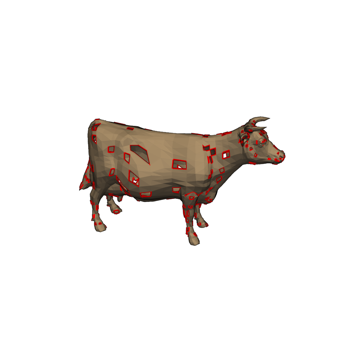
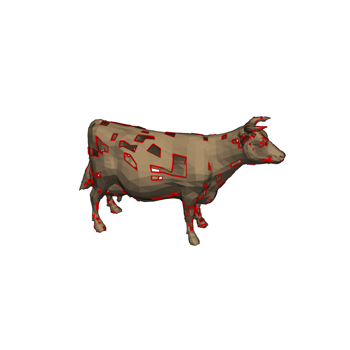
Update docs after building Travis build 45 of pyvista/pymeshfix
The docs were built from the branch 'master' against the commit
4418b48754cbcd72e7fec20f41871dd98e894cdd.

The Travis build that generated this commit is at
https://travis-ci.org/pyvista/pymeshfix/jobs/537508669.

The doctr command that was run is

    /home/travis/virtualenv/python3.6.7/bin/doctr deploy --built-docs ./docs/_build/html/ .

Changed region(s): [[0.2286, 0.3143, 0.8286, 0.6857], [0.2571, 0.5714, 0.3143, 0.6571]]

diff --git a/searchindex.js b/searchindex.js
@@ -1,1 +1,1 @@
-Search.setIndex({docnames:["api","examples/bunny","examples/cow","examples/index","examples/sg_execution_times","index"],envversion:{"sphinx.domains.c":1,"sphinx.domains.changeset":1,"sphinx.domains.cpp":1,"sphinx.domains.javascript":1,"sphinx.domains.math":2,"sphinx.domains.python":1,"sphinx.domains.rst":1,"sphinx.domains.std":1,sphinx:56},filenames:["api.rst","examples/bunny.rst","examples/cow.rst","examples/index.rst","examples/sg_execution_times.rst","index.rst"],objects:{"pymeshfix.MeshFix":{extract_holes:[0,1,1,""],load_arrays:[0,1,1,""],mesh:[0,2,1,""],plot:[0,1,1,""],repair:[0,1,1,""],save:[0,1,1,""],write:[0,1,1,""]},pymeshfix:{MeshFix:[0,0,1,""],_meshfix:[0,3,0,"-"],meshfix:[0,3,0,"-"]}},objnames:{"0":["py","class","Python class"],"1":["py","method","Python method"],"2":["py","attribute","Python attribute"],"3":["py","module","Python module"]},objtypes:{"0":"py:class","1":"py:method","2":"py:attribute","3":"py:module"},terms:{"0x7f31f1caa768":2,"0x7f31f1d0dca8":2,"446e":2,"637e":2,"696e":2,"701e":2,"760e":2,"998e":2,"case":5,"class":0,"default":0,"float":5,"import":[1,2,5],"new":0,"public":5,"return":[0,5],"true":[0,1,2],"while":5,FOR:5,One:5,The:5,There:5,_meshfix:5,abov:5,access:[0,5],add:2,add_mesh:[1,2],again:5,agreement:5,all:[0,5],allow:5,altern:5,ani:5,approach:5,arg:0,arrai:[0,5],ascii:0,assum:5,attempt:[0,5],atten:[0,5],author:5,award:5,base:[0,5],been:5,befor:0,begin:0,bell:5,better:5,binari:0,bool:0,both:0,bound:[2,5],boundari:[0,5],bring:5,bunni:[3,4],cad:5,camera:[1,2],camera_posit:[1,2],can:[0,5],cannot:5,cast:2,cell:2,charact:0,check:5,cite:5,clean:[0,5],clean_from_arrai:5,clean_from_fil:5,click:[1,2],clone:5,close:5,cnr:5,coars:5,code:[1,2],color:[1,2],com:5,commerci:5,commun:5,compon:[0,5],comput:5,contain:0,contract:5,control:5,copi:5,correct:5,could:5,cow:[3,4],cpo:[1,2],creat:5,cython:[0,5],data:0,debug:0,defect:5,defin:1,degener:5,degeneraci:[1,2],deprec:0,depth:[1,2],design:5,detail:5,digit:5,directli:5,disabl:0,disk:0,distribut:5,doi:5,download:[1,2],download_bunni:1,download_cow:2,drive:5,dual:5,each:0,eas:5,either:[0,5],element:5,enabl:0,enable_eye_dome_light:[1,2],even:5,exampl:[1,2,4],execut:4,extens:0,extract:[0,1],extract_geometri:2,extract_hol:[0,1,2],face:[0,5],fail:5,fals:0,faster:0,fclean:5,file:[0,4],filenam:0,filetyp:0,fill:5,fill_small_boundari:5,fit:5,fix:[1,2],flaw:5,follow:[0,5],format:5,foundat:5,free:5,from:[0,1,2,5],ftype:0,full:[1,2],galleri:[1,2,3],gener:[1,2,3,5],git:5,github:5,gnu:5,gpl:5,hard:5,has:5,have:5,help:[1,2],here:[1,2,5],hole:[0,1,2,5],holi:[3,4],holy_cow:2,hope:5,how:5,http:5,idea:5,imati:5,impli:5,infer:0,infil:5,inner_loop:5,inplac:0,input:5,int32:5,interfac:0,intersect:[1,2,5],invert:2,ipynb:[1,2],isol:0,join:[0,5],join_closest_compon:5,joincomp:0,jupyt:[1,2],largest:0,later:5,left:5,leverag:5,librari:5,licens:5,lightweight:5,line:0,line_width:[1,2],list:5,load:[0,5],load_arrai:[0,5],loadfil:5,locat:2,mai:[0,5],main:5,marco:[0,5],max_it:5,memori:5,merchant:5,mesh:[0,1,2,5],meshfix:[0,1,2,5],method:0,might:5,minut:[1,2],model:5,modifi:5,modul:[0,5],more:5,much:0,must:5,n_cell:2,nativ:5,ndarrai:0,nearbi:[0,5],necessari:5,nice:2,note:0,notebook:[1,2],numpi:[0,2,5],object:[0,5],occurr:5,one:0,open:0,option:[0,5],org:5,other:5,out:[1,2,5],outfil:5,outlin:[1,2],output:5,over:5,overridden:0,paper:5,paramet:0,part:5,particular:5,patch:[1,2],percept:[1,2],perform:[0,5],pip:5,pleas:5,plot:[0,1,2,5],plotter:[1,2],ply:[0,5],point:[0,2],polydata:[0,2],polygon:5,polyhedron:5,portabl:5,posit:1,present:5,print:[0,2,5],process:0,produc:5,program:5,proper:5,publish:5,purpos:5,pymeshfix:[0,1,2],pypi:5,python:[0,1,2,5],pytmesh:5,pyvista:[0,1,2,5],rand:2,random:2,raw:5,reach:5,read:5,readi:1,reason:5,redistribut:5,refer:5,region:5,remov:[0,5],remove_smallest_compon:0,render:[1,2],repair:[0,1,2,5],repres:5,requir:5,research:5,reserv:5,result:[2,5],return_arrai:5,right:5,run:[1,2,5],s00371:5,same:5,save:[0,5],save_fil:5,scalar:2,script:[1,2],second:[1,2],see:5,self:5,set:5,should:[0,5],show:[0,1,2],show_hol:0,simpl:0,singl:5,singular:5,softwar:5,solid:5,sort:5,sourc:[1,2,5],specif:5,specifi:0,speed:5,sphinx:[1,2,3],sphinx_gallery_thumbnail_numb:[1,2],springer:5,stl:0,str:0,string:0,surfac:[0,5],take:5,term:5,tessel:5,test:5,tetrahedr:0,than:0,thei:5,them:0,therefor:5,therein:5,thi:[0,5],three:0,threshold:2,thu:5,time:[1,2],tin:5,tmesh:5,total:[1,2,4],tri_filt:2,triangl:5,triangul:2,triangular:0,txt:5,type:0,typic:5,unavail:5,under:5,understand:5,unless:0,unmodifi:5,updat:0,use:5,used:5,useful:5,user:5,uses:5,using:[0,5],vclean:5,verbos:[0,1,2],version:5,vertex:[0,5],view:5,visual:5,vtk:0,vtkinterfac:5,warranti:5,watertight:5,where:5,whistl:5,win:5,wish:5,with_vtk:5,within:5,wonder:5,work:5,wrap:0,wrapper:[0,5],write:[0,5],written:0,www:5,xyz:0,you:5,your:5},titles:["API Reference","Bunny","Holy Cow","Examples","Computation times","PyMeshFix"],titleterms:{algorithm:5,api:0,bunni:1,citat:5,complet:5,comput:4,copyright:5,cow:2,depend:5,easi:5,exampl:[3,5],holi:2,instal:5,polici:5,pymeshfix:5,refer:0,time:4,vtk:5,without:5}})
+Search.setIndex({docnames:["api","examples/bunny","examples/cow","examples/index","examples/sg_execution_times","index"],envversion:{"sphinx.domains.c":1,"sphinx.domains.changeset":1,"sphinx.domains.cpp":1,"sphinx.domains.javascript":1,"sphinx.domains.math":2,"sphinx.domains.python":1,"sphinx.domains.rst":1,"sphinx.domains.std":1,sphinx:56},filenames:["api.rst","examples/bunny.rst","examples/cow.rst","examples/index.rst","examples/sg_execution_times.rst","index.rst"],objects:{"pymeshfix.MeshFix":{extract_holes:[0,1,1,""],load_arrays:[0,1,1,""],mesh:[0,2,1,""],plot:[0,1,1,""],repair:[0,1,1,""],save:[0,1,1,""],write:[0,1,1,""]},pymeshfix:{MeshFix:[0,0,1,""],_meshfix:[0,3,0,"-"],meshfix:[0,3,0,"-"]}},objnames:{"0":["py","class","Python class"],"1":["py","method","Python method"],"2":["py","attribute","Python attribute"],"3":["py","module","Python module"]},objtypes:{"0":"py:class","1":"py:method","2":"py:attribute","3":"py:module"},terms:{"0x7f73533e1648":2,"0x7f7353442ee8":2,"446e":2,"637e":2,"696e":2,"701e":2,"760e":2,"998e":2,"case":5,"class":0,"default":0,"float":5,"import":[1,2,5],"new":0,"public":5,"return":[0,5],"true":[0,1,2],"while":5,FOR:5,One:5,The:5,There:5,_meshfix:5,abov:5,access:[0,5],add:2,add_mesh:[1,2],again:5,agreement:5,all:[0,5],allow:5,altern:5,ani:5,approach:5,arg:0,arrai:[0,5],ascii:0,assum:5,attempt:[0,5],atten:[0,5],author:5,award:5,base:[0,5],been:5,befor:0,begin:0,bell:5,better:5,binari:0,bool:0,both:0,bound:[2,5],boundari:[0,5],bring:5,bunni:[3,4],cad:5,camera:[1,2],camera_posit:[1,2],can:[0,5],cannot:5,cast:2,cell:2,charact:0,check:5,cite:5,clean:[0,5],clean_from_arrai:5,clean_from_fil:5,click:[1,2],clone:5,close:5,cnr:5,coars:5,code:[1,2],color:[1,2],com:5,commerci:5,commun:5,compon:[0,2,5],comput:5,contain:0,contract:5,control:5,copi:5,correct:5,could:5,cow:[3,4],cpo:[1,2],creat:5,cython:[0,5],data:0,debug:0,defect:5,defin:1,degener:5,degeneraci:[1,2],deprec:0,depth:[1,2],design:5,detail:5,digit:5,directli:5,disabl:0,disk:0,distribut:5,doi:5,download:[1,2],download_bunni:1,download_cow:2,drive:5,dual:5,each:0,eas:5,either:[0,5],element:5,enabl:0,enable_eye_dome_light:[1,2],even:5,exampl:[1,2,4],execut:4,extens:0,extract:[0,1],extract_geometri:2,extract_hol:[0,1,2],face:[0,5],fail:5,fals:0,faster:0,fclean:5,file:[0,4],filenam:0,filetyp:0,fill:5,fill_small_boundari:5,fit:5,fix:[1,2],flaw:5,follow:[0,5],format:5,foundat:5,free:5,from:[0,1,2,5],ftype:0,full:[1,2],galleri:[1,2,3],gener:[1,2,3,5],git:5,github:5,gnu:5,gpl:5,hard:5,has:5,have:5,help:[1,2],here:[1,2,5],hole:[0,1,2,5],holi:[3,4],holy_cow:2,hope:5,how:5,http:5,idea:5,imati:5,impli:5,infer:0,infil:5,inner_loop:5,inplac:0,input:5,int32:5,interfac:0,intersect:[1,2,5],invert:2,ipynb:[1,2],isol:0,join:[0,5],join_closest_compon:5,joincomp:0,jupyt:[1,2],largest:0,later:5,left:5,leverag:5,librari:5,licens:5,lightweight:5,line:0,line_width:[1,2],list:5,load:[0,5],load_arrai:[0,5],loadfil:5,locat:2,mai:[0,5],main:5,marco:[0,5],max_it:5,memori:5,merchant:5,mesh:[0,1,2,5],meshfix:[0,1,2,5],method:0,might:5,minut:[1,2],model:5,modifi:5,modul:[0,5],more:5,much:0,must:5,n_cell:2,nativ:5,ndarrai:0,nearbi:[0,5],necessari:5,nice:2,note:0,notebook:[1,2],numpi:[0,2,5],object:[0,5],occurr:5,one:0,open:0,option:[0,5],org:5,other:5,out:[1,2,5],outfil:5,outlin:[1,2],output:5,over:5,overridden:0,paper:5,paramet:0,part:5,particular:5,patch:[1,2],percept:[1,2],perform:[0,5],pip:5,pleas:5,plot:[0,1,2,5],plotter:[1,2],ply:[0,5],point:[0,2],polydata:[0,2],polygon:5,polyhedron:5,portabl:5,posit:1,present:5,print:[0,2,5],process:0,produc:5,program:5,proper:5,publish:5,purpos:5,pymeshfix:[0,1,2],pypi:5,python:[0,1,2,5],pytmesh:5,pyvista:[0,1,2,5],rand:2,random:2,raw:5,reach:5,read:5,readi:1,reason:5,redistribut:5,refer:5,region:5,remov:[0,2,5],remove_smallest_compon:0,render:[1,2],repair:[0,1,2,5],repres:5,requir:5,research:5,reserv:5,result:[2,5],return_arrai:5,right:5,run:[1,2,5],s00371:5,same:5,save:[0,5],save_fil:5,scalar:2,script:[1,2],second:[1,2],see:5,self:5,set:5,should:[0,5],show:[0,1,2],show_hol:0,simpl:0,singl:5,singular:5,small:2,softwar:5,solid:5,sort:5,sourc:[1,2,5],specif:5,specifi:0,speed:5,sphinx:[1,2,3],sphinx_gallery_thumbnail_numb:[1,2],springer:5,stl:0,str:0,string:0,surfac:[0,5],take:5,term:5,tessel:5,test:5,tetrahedr:0,than:0,thei:5,them:0,therefor:5,therein:5,thi:[0,5],three:0,threshold:2,thu:5,time:[1,2],tin:5,tmesh:5,total:[1,2,4],tri_filt:2,triangl:5,triangul:2,triangular:0,txt:5,type:0,typic:5,unavail:5,under:5,understand:5,unless:0,unmodifi:5,updat:0,use:5,used:5,useful:5,user:5,uses:5,using:[0,5],vclean:5,verbos:[0,1,2],version:5,vertex:[0,5],view:5,visual:5,vtk:0,vtkinterfac:5,warranti:5,watertight:5,where:5,whistl:5,win:5,wish:5,with_vtk:5,within:5,wonder:5,work:5,wrap:0,wrapper:[0,5],write:[0,5],written:0,www:5,xyz:0,you:5,your:5},titles:["API Reference","Bunny","Holy Cow","Examples","Computation times","PyMeshFix"],titleterms:{algorithm:5,api:0,bunni:1,citat:5,complet:5,comput:4,copyright:5,cow:2,depend:5,easi:5,exampl:[3,5],holi:2,instal:5,polici:5,pymeshfix:5,refer:0,time:4,vtk:5,without:5}})

diff --git a/examples/cow.html b/examples/cow.html
@@ -222,8 +222,8 @@
 </pre></div>
 </div>
 <p class="sphx-glr-script-out">Out:</p>
-<div class="sphx-glr-script-out highlight-none notranslate"><div class="highlight"><pre><span></span>PolyData (0x7f31f1caa768)
-  N Cells:      5224
+<div class="sphx-glr-script-out highlight-none notranslate"><div class="highlight"><pre><span></span>PolyData (0x7f73533e1648)
+  N Cells:      5184
   N Points:     2903
   X Bounds:     -4.446e+00, 5.998e+00
   Y Bounds:     -3.637e+00, 2.760e+00
@@ -254,8 +254,9 @@
 </pre></div>
 </div>
 <p class="sphx-glr-script-out">Out:</p>
-<div class="sphx-glr-script-out highlight-none notranslate"><div class="highlight"><pre><span></span>Patching holes...
-Patched 201 holes
+<div class="sphx-glr-script-out highlight-none notranslate"><div class="highlight"><pre><span></span>Removed 1 small components
+Patching holes...
+Patched 188 holes
 Fixing degeneracies and intersections
 </pre></div>
 </div>
@@ -265,9 +266,9 @@ Fixing degeneracies and intersections
 </pre></div>
 </div>
 <p class="sphx-glr-script-out">Out:</p>
-<div class="sphx-glr-script-out highlight-none notranslate"><div class="highlight"><pre><span></span>PolyData (0x7f31f1d0dca8)
-  N Cells:      5448
-  N Points:     2726
+<div class="sphx-glr-script-out highlight-none notranslate"><div class="highlight"><pre><span></span>PolyData (0x7f7353442ee8)
+  N Cells:      5466
+  N Points:     2735
   X Bounds:     -3.696e+00, 5.998e+00
   Y Bounds:     -3.637e+00, 2.760e+00
   Z Bounds:     -1.701e+00, 1.701e+00
@@ -278,7 +279,7 @@ Fixing degeneracies and intersections
 </pre></div>
 </div>
 <img alt="../_images/sphx_glr_cow_002.png" class="sphx-glr-single-img" src="../_images/sphx_glr_cow_002.png" />
-<p class="sphx-glr-timing"><strong>Total running time of the script:</strong> ( 0 minutes  5.241 seconds)</p>
+<p class="sphx-glr-timing"><strong>Total running time of the script:</strong> ( 0 minutes  5.265 seconds)</p>
 <div class="sphx-glr-footer class sphx-glr-footer-example docutils container" id="sphx-glr-download-examples-cow-py">
 <div class="sphx-glr-download docutils container">
 <p><a class="reference download internal" download="" href="../_downloads/700f1bf357ea69088c0a34b0aa306d26/cow.py"><code class="xref download docutils literal notranslate"><span class="pre">Download</span> <span class="pre">Python</span> <span class="pre">source</span> <span class="pre">code:</span> <span class="pre">cow.py</span></code></a></p>

diff --git a/examples/sg_execution_times.html b/examples/sg_execution_times.html
@@ -193,10 +193,10 @@
             
   <div class="section" id="computation-times">
 <span id="sphx-glr-examples-sg-execution-times"></span><h1>Computation times<a class="headerlink" href="#computation-times" title="Permalink to this headline">¶</a></h1>
-<p><strong>00:18.852</strong> total execution time for <strong>examples</strong> files:</p>
+<p><strong>00:18.866</strong> total execution time for <strong>examples</strong> files:</p>
 <ul class="simple">
-<li><p><strong>00:13.611</strong>: <a class="reference internal" href="bunny.html#sphx-glr-examples-bunny-py"><span class="std std-ref">Bunny</span></a> (<code class="docutils literal notranslate"><span class="pre">bunny.py</span></code>)</p></li>
-<li><p><strong>00:05.241</strong>: <a class="reference internal" href="cow.html#sphx-glr-examples-cow-py"><span class="std std-ref">Holy Cow</span></a> (<code class="docutils literal notranslate"><span class="pre">cow.py</span></code>)</p></li>
+<li><p><strong>00:13.601</strong>: <a class="reference internal" href="bunny.html#sphx-glr-examples-bunny-py"><span class="std std-ref">Bunny</span></a> (<code class="docutils literal notranslate"><span class="pre">bunny.py</span></code>)</p></li>
+<li><p><strong>00:05.265</strong>: <a class="reference internal" href="cow.html#sphx-glr-examples-cow-py"><span class="std std-ref">Holy Cow</span></a> (<code class="docutils literal notranslate"><span class="pre">cow.py</span></code>)</p></li>
 </ul>
 </div>
 

diff --git a/examples/bunny.html b/examples/bunny.html
@@ -254,7 +254,7 @@ Fixing degeneracies and intersections
 </pre></div>
 </div>
 <img alt="../_images/sphx_glr_bunny_003.png" class="sphx-glr-single-img" src="../_images/sphx_glr_bunny_003.png" />
-<p class="sphx-glr-timing"><strong>Total running time of the script:</strong> ( 0 minutes  13.611 seconds)</p>
+<p class="sphx-glr-timing"><strong>Total running time of the script:</strong> ( 0 minutes  13.601 seconds)</p>
 <div class="sphx-glr-footer class sphx-glr-footer-example docutils container" id="sphx-glr-download-examples-bunny-py">
 <div class="sphx-glr-download docutils container">
 <p><a class="reference download internal" download="" href="../_downloads/81a10a6450959c49a589aa8cee630836/bunny.py"><code class="xref download docutils literal notranslate"><span class="pre">Download</span> <span class="pre">Python</span> <span class="pre">source</span> <span class="pre">code:</span> <span class="pre">bunny.py</span></code></a></p>
